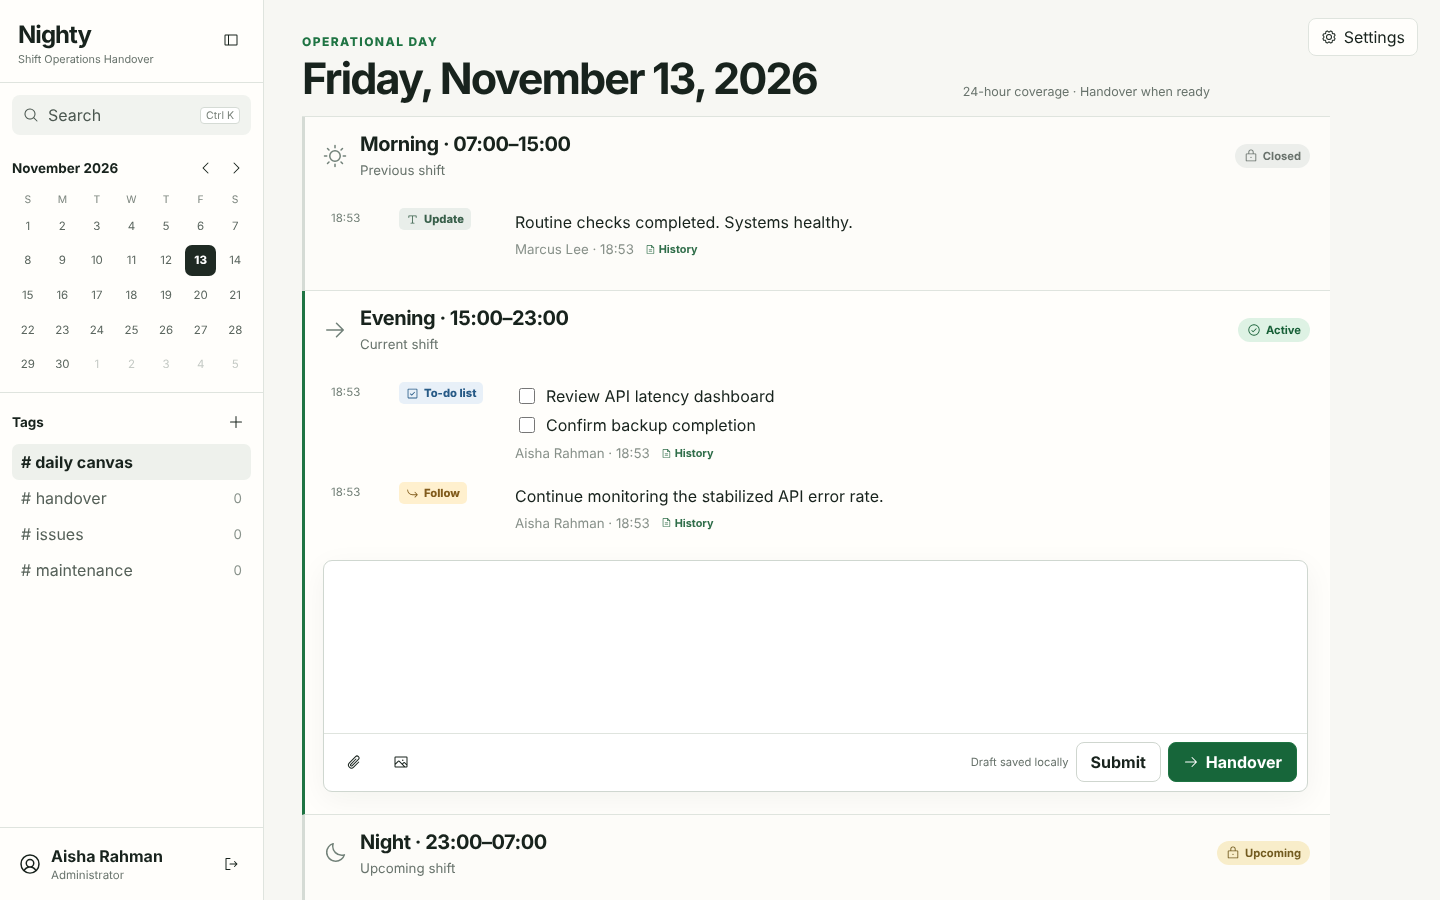
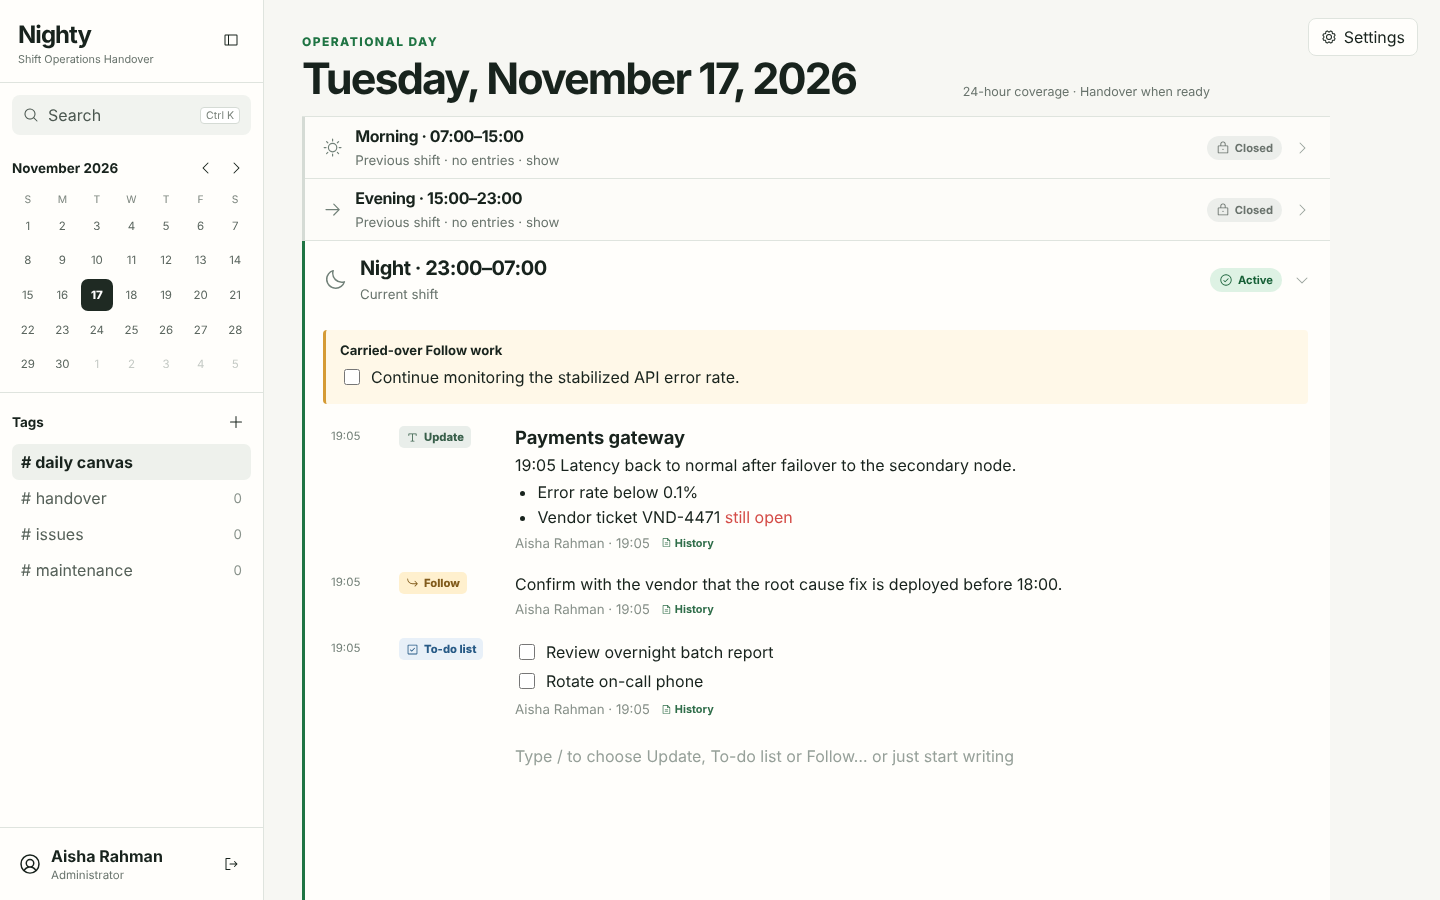
fix: keep fast typing in the right to-do row; refresh screenshots
- A new to-do row receives the cursor before the next key press, so
  typing straight after Enter no longer spills into the previous row.
- README screenshots show the current design.

Claude-Session: https://claude.ai/code/session_01AoBVM8ABmkYUtQmYj2ZkH1

diff --git a/apps/web/src/editor/EntryComposer.tsx b/apps/web/src/editor/EntryComposer.tsx
@@ -4,7 +4,7 @@ import { BackgroundColor, Color, TextStyle } from "@tiptap/extension-text-style"
 import { Placeholder } from "@tiptap/extensions";
 import type { Editor } from "@tiptap/core";
 import { EditorContent, useEditor } from "@tiptap/react";
-import { useCallback, useEffect, useMemo, useRef, useState } from "react";
+import { useCallback, useEffect, useLayoutEffect, useMemo, useRef, useState } from "react";
 import { ApiError, api, jsonBody } from "../api/client";
 import type { Entry, EntryType, TodoItem } from "../operations/types";
 import { SelectionToolbar } from "./SelectionToolbar";
@@ -114,6 +114,8 @@ export function EntryComposer({ shiftId, operationalDate, onSaved, onHandover }:
   const [saveState, setSaveState] = useState<SaveState>(restored?.entryId ? "saved" : "idle");
   const fileInput = useRef<HTMLInputElement>(null); const imageInput = useRef<HTMLInputElement>(null); const emptyEnterRow = useRef<string | null>(null);
   const entryId = useRef<string | null>(restored?.entryId ?? null);
+  // The to-do row that should receive the cursor as soon as it is on screen, before the next key press.
+  const focusRow = useRef<string | "first" | null>(null); const composerRef = useRef<HTMLElement>(null);
   // Each entry typed in this composer gets a generation, so a save that finishes after the
   // author has already moved on to the next entry can never land in the wrong one.
   const generation = useRef(0); const savedIds = useRef(new Map<number, string>());
@@ -277,6 +279,11 @@ export function EntryComposer({ shiftId, operationalDate, onSaved, onHandover }:
   useEffect(() => { const hidden = () => { if (document.visibilityState === "hidden") void flush(); }; document.addEventListener("visibilitychange", hidden); return () => document.removeEventListener("visibilitychange", hidden); }, [flush]);
   useEffect(() => { mounted.current = true; return () => { mounted.current = false; void flush(); }; }, [flush]);
 
+  useLayoutEffect(() => {
+    const target = focusRow.current; if (!target) return;
+    const input = composerRef.current?.querySelector<HTMLInputElement>(target === "first" ? "[data-todo-id]" : `[data-todo-id="${target}"]`);
+    if (input) { input.focus(); focusRow.current = null; }
+  });
   function updateTodos(next: (current: TodoDraft[]) => TodoDraft[]) { setTodos((current) => { const value = next(current); latest.current = { ...latest.current, todos: value }; return value; }); changed(); }
   /** Applies an action picked from the "/" menu. */
   function choose(next: EntryType) {
@@ -295,7 +302,7 @@ export function EntryComposer({ shiftId, operationalDate, onSaved, onHandover }:
       generation.current += 1; entryId.current = null; dirty.current = false; localStorage.removeItem(storageKey); callbacks.current.onSaved(null); setSaveState("idle");
     }
     setType(next); setChosen(true); latest.current = { ...latest.current, type: next };
-    if (next === "TODO") setTimeout(() => (document.querySelector("[data-todo-id]") as HTMLInputElement | null)?.focus());
+    if (next === "TODO") focusRow.current = "first";
     else setTimeout(() => editorRef.current?.commands.focus("end"));
     if (next !== "TODO" && (editorRef.current?.getText().trim() ?? "")) changed(); else remember();
   }
@@ -329,7 +336,7 @@ export function EntryComposer({ shiftId, operationalDate, onSaved, onHandover }:
     const added = newTodoDraft();
     emptyEnterRow.current = null;
     updateTodos((current) => [...current.slice(0, index + 1), added, ...current.slice(index + 1)]);
-    setTimeout(() => (document.querySelector(`[data-todo-id="${added.id}"]`) as HTMLInputElement | null)?.focus());
+    focusRow.current = added.id;
   }
   async function closeTodoBlock() {
     if (await finish()) return;
@@ -339,5 +346,5 @@ export function EntryComposer({ shiftId, operationalDate, onSaved, onHandover }:
   function attach(kind: "image" | "file", added: File[]) { if (kind === "image") setImages((current) => { const value = [...current, ...added]; latest.current = { ...latest.current, images: value }; return value; }); else setFiles((current) => { const value = [...current, ...added]; latest.current = { ...latest.current, files: value }; return value; }); changed(); }
 
   const kind = actions.find((action) => action.type === type)!;
-  return <section className="entry-composer" aria-label="Shift update composer"><div className="composer-body"><div className="composer-gutter" aria-hidden="true"><time>{saveState === "saved" || saveState === "saving" ? "now" : ""}</time>{(chosen || hasText || type !== "UPDATE") && <span className={`entry-label entry-label-${type.toLowerCase()}`}><kind.icon /> {kind.label}</span>}</div>{type === "TODO" ? <div className="todo-editor"><header><strong>To-do list</strong><button type="button" className="icon-button small" onClick={() => void closeTodoBlock()} aria-label="Close to-do list"><X /></button></header>{todos.map((item, index) => <div className="todo-editor-row" key={item.id}><input type="checkbox" disabled aria-label={`To-do item ${index + 1}`} /><input aria-label={`To-do text ${index + 1}`} data-todo-id={item.id} value={item.text} onChange={(event) => { emptyEnterRow.current = null; const text = event.target.value; updateTodos((current) => current.map((currentItem) => currentItem.id === item.id ? { ...currentItem, text } : currentItem)); }} onKeyDown={(event) => { if (event.key === "Enter" || (event.key === "Backspace" && !event.currentTarget.value)) { event.preventDefault(); todoKey(item.id, event.key); } }} onBlur={() => void flush()} placeholder={index === 0 ? "Add a to-do and press Enter" : "Another to-do"} /><button type="button" className="icon-button small remove-todo" onClick={() => removeTodo(item.id)} aria-label={`Remove to-do ${index + 1}`}><X /></button></div>)}</div> : <><EditorContent editor={editor} />{editor && <SelectionToolbar editor={editor} />}</>}{menu && options.length > 0 && <div className="slash-menu" role="menu" aria-label="Insert action">{options.map((action, index) => <button key={action.kind === "entry" ? action.type : action.id} role="menuitem" className={`${index === Math.min(highlight, options.length - 1) ? "highlighted" : ""}${index > 0 && action.kind === "format" && options[index - 1]?.kind === "entry" ? " group-start" : ""}`} onMouseDown={(event) => event.preventDefault()} onClick={() => runCommand(action)}><action.icon /><span><strong>{action.label}</strong><small>{action.help}</small></span></button>)}<small className="slash-hint">Enter to choose · Esc to keep typing</small></div>}{mentionMenu && team.length > 0 && <div className="slash-menu mention-menu" role="menu" aria-label="Mention teammate">{team.map((member) => <button key={member.id} role="menuitem" onMouseDown={(event) => event.preventDefault()} onClick={() => mention(member.displayName)}><span><strong>@{member.displayName}</strong></span></button>)}</div>}{images.length > 0 && <div className="image-previews">{images.map((file, index) => <figure key={`${file.name}-${index}`}><img src={URL.createObjectURL(file)} alt={file.name} /><figcaption>{file.name}</figcaption></figure>)}</div>}{files.length > 0 && <ul className="pending-files">{files.map((file, index) => <li key={`${file.name}-${index}`}><Paperclip /> {file.name}</li>)}</ul>}</div><footer><div className="composer-tools"><button className="icon-button" onClick={() => fileInput.current?.click()} aria-label="Attach file"><Paperclip /></button><button className="icon-button" onClick={() => imageInput.current?.click()} aria-label="Add image"><Image /></button><input ref={fileInput} hidden type="file" onChange={(event) => attach("file", Array.from(event.target.files ?? []))} /><input ref={imageInput} hidden type="file" accept="image/*" onChange={(event) => attach("image", Array.from(event.target.files ?? []))} /></div><div className="composer-actions"><span role="status" className={`save-state ${saveState}`}>{(images.length > 0 || files.length > 0) && saveState === "idle" ? "Add text to save the attachment" : statusText[saveState]}</span><button className="primary-button handover-button" onClick={() => void handover()}><ArrowRight /> Handover</button></div></footer></section>;
+  return <section ref={composerRef} className="entry-composer" aria-label="Shift update composer"><div className="composer-body"><div className="composer-gutter" aria-hidden="true"><time>{saveState === "saved" || saveState === "saving" ? "now" : ""}</time>{(chosen || hasText || type !== "UPDATE") && <span className={`entry-label entry-label-${type.toLowerCase()}`}><kind.icon /> {kind.label}</span>}</div>{type === "TODO" ? <div className="todo-editor"><header><strong>To-do list</strong><button type="button" className="icon-button small" onClick={() => void closeTodoBlock()} aria-label="Close to-do list"><X /></button></header>{todos.map((item, index) => <div className="todo-editor-row" key={item.id}><input type="checkbox" disabled aria-label={`To-do item ${index + 1}`} /><input aria-label={`To-do text ${index + 1}`} data-todo-id={item.id} value={item.text} onChange={(event) => { emptyEnterRow.current = null; const text = event.target.value; updateTodos((current) => current.map((currentItem) => currentItem.id === item.id ? { ...currentItem, text } : currentItem)); }} onKeyDown={(event) => { if (event.key === "Enter" || (event.key === "Backspace" && !event.currentTarget.value)) { event.preventDefault(); todoKey(item.id, event.key); } }} onBlur={() => void flush()} placeholder={index === 0 ? "Add a to-do and press Enter" : "Another to-do"} /><button type="button" className="icon-button small remove-todo" onClick={() => removeTodo(item.id)} aria-label={`Remove to-do ${index + 1}`}><X /></button></div>)}</div> : <><EditorContent editor={editor} />{editor && <SelectionToolbar editor={editor} />}</>}{menu && options.length > 0 && <div className="slash-menu" role="menu" aria-label="Insert action">{options.map((action, index) => <button key={action.kind === "entry" ? action.type : action.id} role="menuitem" className={`${index === Math.min(highlight, options.length - 1) ? "highlighted" : ""}${index > 0 && action.kind === "format" && options[index - 1]?.kind === "entry" ? " group-start" : ""}`} onMouseDown={(event) => event.preventDefault()} onClick={() => runCommand(action)}><action.icon /><span><strong>{action.label}</strong><small>{action.help}</small></span></button>)}<small className="slash-hint">Enter to choose · Esc to keep typing</small></div>}{mentionMenu && team.length > 0 && <div className="slash-menu mention-menu" role="menu" aria-label="Mention teammate">{team.map((member) => <button key={member.id} role="menuitem" onMouseDown={(event) => event.preventDefault()} onClick={() => mention(member.displayName)}><span><strong>@{member.displayName}</strong></span></button>)}</div>}{images.length > 0 && <div className="image-previews">{images.map((file, index) => <figure key={`${file.name}-${index}`}><img src={URL.createObjectURL(file)} alt={file.name} /><figcaption>{file.name}</figcaption></figure>)}</div>}{files.length > 0 && <ul className="pending-files">{files.map((file, index) => <li key={`${file.name}-${index}`}><Paperclip /> {file.name}</li>)}</ul>}</div><footer><div className="composer-tools"><button className="icon-button" onClick={() => fileInput.current?.click()} aria-label="Attach file"><Paperclip /></button><button className="icon-button" onClick={() => imageInput.current?.click()} aria-label="Add image"><Image /></button><input ref={fileInput} hidden type="file" onChange={(event) => attach("file", Array.from(event.target.files ?? []))} /><input ref={imageInput} hidden type="file" accept="image/*" onChange={(event) => attach("image", Array.from(event.target.files ?? []))} /></div><div className="composer-actions"><span role="status" className={`save-state ${saveState}`}>{(images.length > 0 || files.length > 0) && saveState === "idle" ? "Add text to save the attachment" : statusText[saveState]}</span><button className="primary-button handover-button" onClick={() => void handover()}><ArrowRight /> Handover</button></div></footer></section>;
 }

diff --git a/README.md b/README.md
@@ -4,7 +4,7 @@
 
 Nighty is an open-source, self-hosted shift handover workspace for a 24/7 operations team (NOC, SOC, IT service desk, control room). Each operational day is one scrollable canvas where every shift logs updates, to-do lists and follow-ups. Handover is a deliberate, manual action, and open Follow items carry over to the next shift exactly once, so nothing is lost between teams.
 
-![Daily canvas with Morning, Evening and Night shifts](docs/screenshots/02-daily-canvas.png)
+![Daily canvas: earlier shifts collapsed, the current shift open with formatted entries](docs/screenshots/02-daily-canvas.png)
 
 ## Live demo
 
